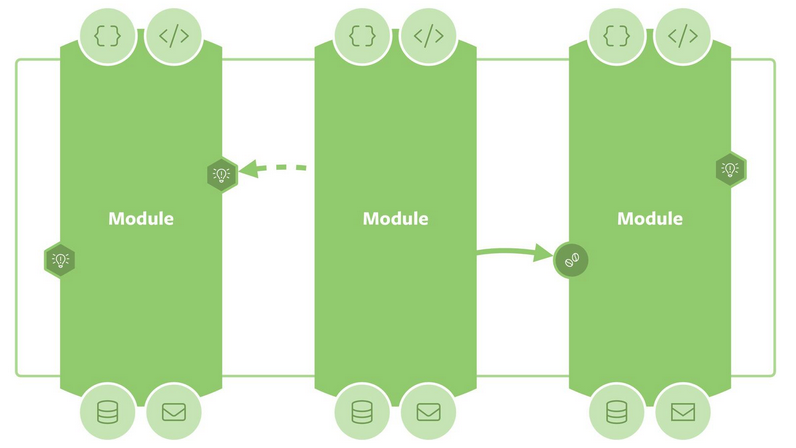
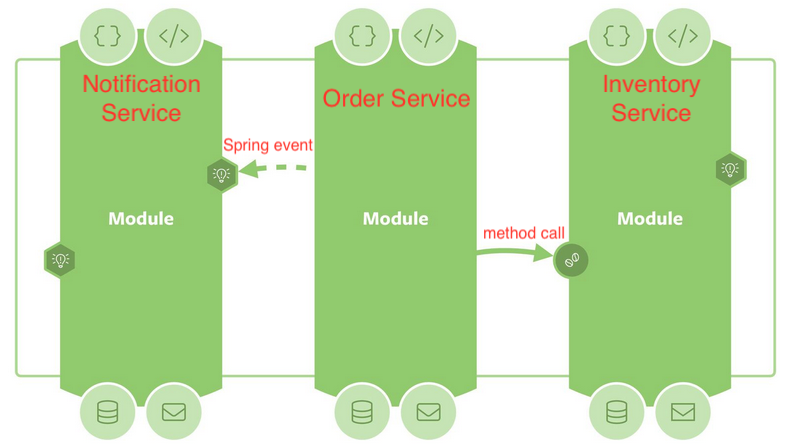
update slide

diff --git a/slide/edd-slide.md b/slide/edd-slide.md
@@ -61,7 +61,10 @@ img.xrex_logo {
 ### **Spring Event** and **Spring Modulith**
 <br>
 <p class="center">
-Stone Huang <br><br>
+Stone Huang <br>
+<img src="pics/xrexinc_logo.jpg" class="xrex_logo"> XREX Inc.
+<br>
+<br>
 JCConf Taiwan 2024
 </p>
 
@@ -69,7 +72,6 @@ JCConf Taiwan 2024
 
 ### About Stone Huang
 
-- <img src="pics/xrexinc_logo.jpg" class="xrex_logo"> XREX Inc.
 - 金融業、電信業、系統整合商、新創軟體公司等
 - 系統架構設計、分散式系統開發、區塊鏈應用等
 - 證照 : AWS、CKA、CKAD、SCJP、SCWCD、Microsoft SQL Server、CCNA、Neo4j及相關金融證照
@@ -87,15 +89,14 @@ JCConf Taiwan 2024
 
 ### What is EDA
 
-<span class="highlight">Event-driven architecture (EDA)</span> is a microservice architectural pattern that utilizes asynchronous communication triggered by <span class="highlight">events</span> rather than conventional request-response patterns. 
-
+> “ <span class="highlight">Event-driven architecture (EDA)</span> is a microservice architectural pattern that utilizes asynchronous communication triggered by <span class="highlight">events</span>. 
 EDA enhances <span class="highlight">scalability, responsiveness, and real-time processing</span>, making it ideal for modern, dynamic applications <span class="highlight">across diverse domains</span>.
 
 --
 
 ### What is Event
 
-An event in EDA refers to a <span class="highlight">significant occurrence or action within a system</span>, typically triggering responses or processes.
+> “ An event in EDA refers to a <span class="highlight">significant occurrence or action within a system</span>, typically triggering responses or processes.
 
 --
 
@@ -125,13 +126,13 @@ Examples :
 
 ### Benefits of EDA
 - Loosely-coupled architecture
-- Scalibility of Consumers
+- Scalability of Consumers
 - Async processing
 - Single Responsibility Principle(SRP) and Open-Closed Principle (OCP).
 
 ---
 
-### EDA within Applicaiton
+### EDA within Application
 
 Typical EDA is a distributed system achieved by <span class="highlight"> EXTERNAL</span> events. 
 
@@ -144,7 +145,7 @@ But, how about <span class="highlight">INTERNAL</span> events communication with
 
 - 需要發送信件給客戶
 - 並且需要累計銷量供後續管理人員查詢
-- And more in the future
+- And more tasks in the future
 
 --
 
@@ -161,7 +162,7 @@ public class OrderService {
 
     @Transactional
     public void createOrder(Order order) {
-        orderRepository.save(order)
+        orderRepository.save(order);
         notificationService.sendEmail(order);
         statisticsService.calculateOrderAmount(order);
         // do something in the future
@@ -186,7 +187,8 @@ use build-in Spring Event Framework
 Spring Event is a standard <span class="highlight">observer design</span> pattern that implements Pub-Sub mechanism in Spring Application. 
 A fundamental part of Spring Framework.
 
-By leveraging Spring <span class="highlight"> ***ApplicationEventPublisher*** </span> and <span class="highlight">***@EventListener***</span> and other components to achieve this goal.
+By leveraging Spring <span class="highlight"> ***ApplicationEventPublisher*** </span> and <span class="highlight">***@EventListener***</span>
+interact with Spring Event System.
 
 --
 
@@ -296,7 +298,7 @@ public class OrderEventListener2 {
     
     @EventListener
     public void receiveAndCalculateAmount(OrderCreatedEvent event) {
-        // calculate order amountf
+        // calculate order amount
         statisticsService.calculateOrderAmount(event.getOrder());
     }
 }
@@ -306,7 +308,7 @@ public class OrderEventListener2 {
 
 ### Async Event
 
-By default, regular event listener is <span class="highlight">synchronous runs on the same thread with producer</span>. If your operations of a listener take long time, It is better to to use <span class="highlight">asynchronous event listeners</span>.
+By default, regular event listeners <span class="highlight">run synchronously in the same thread with producer</span>. If your listener operations take a long time, It is better to to use <span class="highlight">asynchronous event listeners</span>.
 
 
 --
@@ -321,8 +323,8 @@ sequenceDiagram
 
     Producer->>Producer : start proccess
     Producer->>Broker: publish event
-    Broker->>Producer: 
     Broker--)EventListener: notify (async)
+    Broker->>Producer: 
     EventListener->>EventListener: do something
     Producer->>Producer : continue proccess
 
@@ -337,13 +339,20 @@ use ***@Async***
 ```java
 @Component
 public class OrderEventListener {
-    
     @Async
     @EventListener
     public void receiveAndSendEmail(OrderCreatedEvent event) {...}
-
 }
 ```
+<br>
+
+remember to enable ***@EnableAsync***
+```java
+@EnableAsync
+@SpringBootApplication
+public class SpringApplication {}
+```
+
 
 --
 
@@ -376,6 +385,22 @@ public class OrderEventListener2 {
     @EventListener
     @Order(2)
     public void receiveAndCalculateAmount(OrderCreatedEvent event) {...}
+
+}
+```
+
+--
+
+### Event Filtering
+
+Filter event by SpEL
+
+```java
+@Component
+public class OrderEventListener1 {
+
+    @EventListener(condition = "#event.productName.equals('laptop')")
+    public void receiveAndSendEmail(OrderCreatedEvent event) {...}
 
 }
 ```
@@ -531,6 +556,23 @@ sequenceDiagram
 
 --
 
+### Use Transactional Event Listener 
+***TransactionPhase.AFTER_COMMIT*** by default
+
+```java
+@Component
+public class OrderEventListener {
+    
+    @Async   
+    @TransactionalEventListener (phase = TransactionPhase.AFTER_COMMIT)
+    public void receiveAndSendEmail(OrderCreatedEvent event) {...}
+
+}
+```
+
+
+--
+
 <p class="center">
 DEMO
 </p>
@@ -671,12 +713,14 @@ Republish incompleted event.
 ```mermaid
 sequenceDiagram
     participant Application
+    participant multicase as PersistentApplication <br> EventMulticaster 
     participant Broker as Spring Event System
     participant EventListener as EventListener
     participant DB
-    Application->>Broker: republish incompleted event
-    Broker->>DB: find incompleted event
-    DB->>Broker: 
+    Application->>multicase: republish incompleted event
+    multicase->>DB: find incompleted event
+    DB->>multicase: 
+    multicase->>Broker: notify
     Broker->>EventListener: notify
     EventListener->>Broker: 
     Broker->>DB: mark event record as completed
@@ -724,18 +768,15 @@ spring:
 
 Use ***@ApplicationModuleListener*** instead to simplify the annotation.
 ```java
+@ApplicationModuleListener
+public void receiveAndSendEmail(OrderCreatedEvent event) {...}
+```
+equals to 
+```java
 @TransactionalEventListener
 @Transactional(propagation = Propagation.REQUIRES_NEW)
 @Async
 public void receiveAndSendEmail(OrderCreatedEvent event) {...}
-
-}
-```
-Change to 
-```java
-@ApplicationModuleListener
-public void receiveAndSendEmail(OrderCreatedEvent event) {...}
-
 ```
 
 --
@@ -764,7 +805,7 @@ How to integrate with external brokers such as KafKa, RabbitMQ from internal Spr
 組織內開發了一個以基於RabbitMQ為架構的發送信件微服務，
 原本的"訂單系統"，在完成訂單後
 
-- ~~需要發送信件給客戶~~ <span class="highlight">發送訂單事件到RabbitMQ，由信件微服務消費發送信件給客戶</span>
+- ~~需要發送信件給客戶~~ <span class="highlight">發送訂單事件到RabbitMQ，由信件微服務負責發送信件給客戶</span>
 - 並且需要累計銷量供後續管理人員查詢
 
 --
@@ -790,7 +831,9 @@ public class OrderEventListener1 {
 --
 
 ### Integrate with external brokers (2)
-Approach 2 : use <span class="highlight">Spring Modulith Externalizing Events</span>. Now it supports external borkers ***Kafka, AMQP, JMS, SQS, SNS (Redis is possible in the future)***.
+Approach 2 : use <span class="highlight">Spring Modulith Externalizing Events</span>
+
+Now it supports external borkers ***Kafka, AMQP, JMS, SQS, SNS (Redis is possible in the future)***.
 
 --
 
@@ -846,7 +889,7 @@ use ***@Externalized*** on your event object
 
 ### Externalizing Events (3)
 
-For Example
+For example:
 
 RabbitMQ exchange name : `order.created`
 ```java
